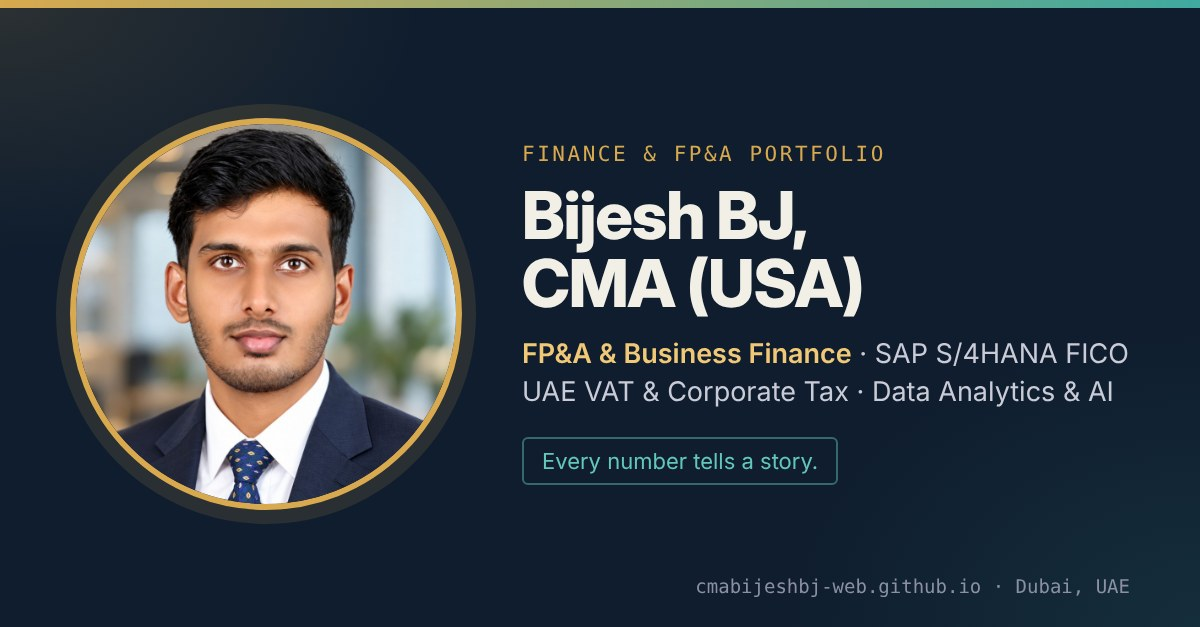
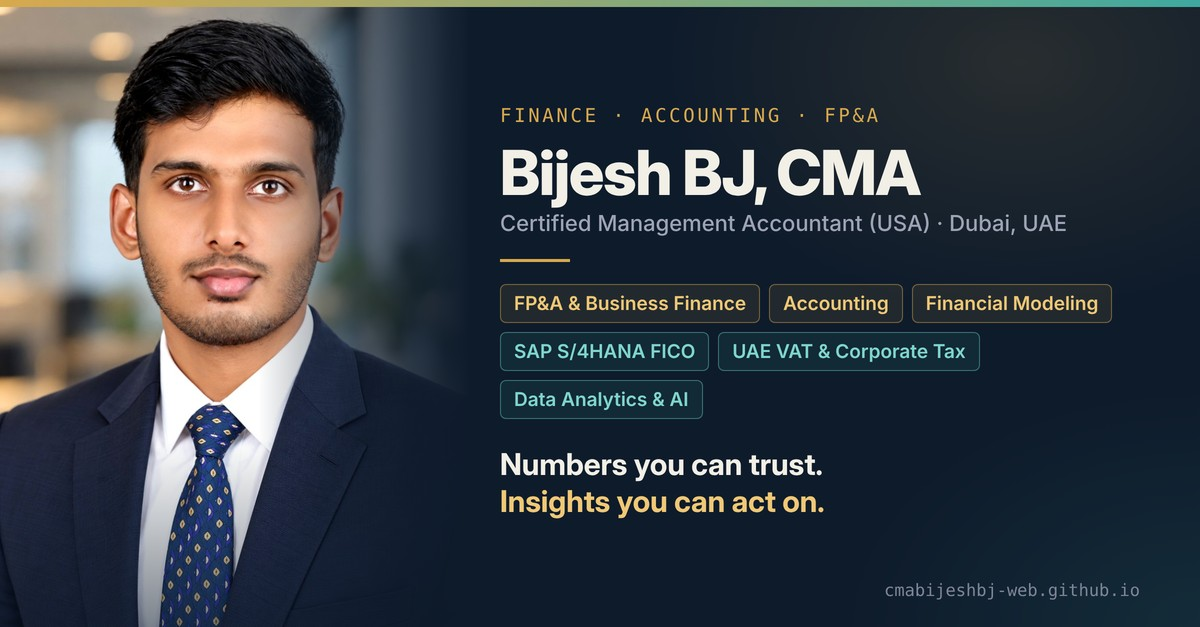
Redesign link-preview card: editorial portrait, add Accounting, new tagline
Claude-Session: https://claude.ai/code/session_01BNz9B2AMKDvx2qBeBHuAEm

diff --git a/projects/financial-model.html b/projects/financial-model.html
@@ -10,11 +10,11 @@
 <meta property="og:title" content="Integrated 3-Statement Financial Model & DCF Valuation — Bijesh BJ, CMA | Finance & FP&A | SAP FICO | Data Analytics">
 <meta property="og:description" content="Scenario-driven 3-statement model and DCF to CFI standards with Base / Upside / Downside cases, sensitivity grid and integrity checks.">
 <meta property="og:url" content="https://cmabijeshbj-web.github.io/projects/financial-model.html">
-<meta property="og:image" content="https://cmabijeshbj-web.github.io/assets/og-image.jpg?v=2">
+<meta property="og:image" content="https://cmabijeshbj-web.github.io/assets/og-image.jpg?v=3">
 <meta property="og:image:width" content="1200">
 <meta property="og:image:height" content="627">
 <meta property="og:image:alt" content="Bijesh BJ, CMA (USA) — Finance &amp; FP&amp;A Portfolio">
-<meta name="twitter:image" content="https://cmabijeshbj-web.github.io/assets/og-image.jpg?v=2">
+<meta name="twitter:image" content="https://cmabijeshbj-web.github.io/assets/og-image.jpg?v=3">
 <meta name="twitter:card" content="summary_large_image">
 <link rel="preconnect" href="https://fonts.googleapis.com">
 <link href="https://fonts.googleapis.com/css2?family=Space+Grotesk:wght@500;600;700&family=IBM+Plex+Sans:wght@400;500;600&family=IBM+Plex+Mono:wght@400;500&display=swap" rel="stylesheet">

diff --git a/projects/fpa-variance-kpi.html b/projects/fpa-variance-kpi.html
@@ -10,11 +10,11 @@
 <meta property="og:title" content="FP&A Performance, Variance & KPI Analysis — Bijesh BJ, CMA | Finance & FP&A | SAP FICO | Data Analytics">
 <meta property="og:description" content="CFO-style FP&A pack: budget vs actual across 5 business units and 6 regions, KPI scorecard, RAG status, variance bridge and auto-commentary.">
 <meta property="og:url" content="https://cmabijeshbj-web.github.io/projects/fpa-variance-kpi.html">
-<meta property="og:image" content="https://cmabijeshbj-web.github.io/assets/og-image.jpg?v=2">
+<meta property="og:image" content="https://cmabijeshbj-web.github.io/assets/og-image.jpg?v=3">
 <meta property="og:image:width" content="1200">
 <meta property="og:image:height" content="627">
 <meta property="og:image:alt" content="Bijesh BJ, CMA (USA) — Finance &amp; FP&amp;A Portfolio">
-<meta name="twitter:image" content="https://cmabijeshbj-web.github.io/assets/og-image.jpg?v=2">
+<meta name="twitter:image" content="https://cmabijeshbj-web.github.io/assets/og-image.jpg?v=3">
 <meta name="twitter:card" content="summary_large_image">
 <link rel="preconnect" href="https://fonts.googleapis.com">
 <link href="https://fonts.googleapis.com/css2?family=Space+Grotesk:wght@500;600;700&family=IBM+Plex+Sans:wght@400;500;600&family=IBM+Plex+Mono:wght@400;500&display=swap" rel="stylesheet">

diff --git a/projects/uae-corporate-tax.html b/projects/uae-corporate-tax.html
@@ -10,11 +10,11 @@
 <meta property="og:title" content="UAE Corporate Tax Computation Model — Bijesh BJ, CMA | Finance & FP&A | SAP FICO | Data Analytics">
 <meta property="og:description" content="UAE corporate tax computation: ledger-driven add-backs, exempt income, interest limitation, loss relief, 0%/9% bands and rate reconciliation.">
 <meta property="og:url" content="https://cmabijeshbj-web.github.io/projects/uae-corporate-tax.html">
-<meta property="og:image" content="https://cmabijeshbj-web.github.io/assets/og-image.jpg?v=2">
+<meta property="og:image" content="https://cmabijeshbj-web.github.io/assets/og-image.jpg?v=3">
 <meta property="og:image:width" content="1200">
 <meta property="og:image:height" content="627">
 <meta property="og:image:alt" content="Bijesh BJ, CMA (USA) — Finance &amp; FP&amp;A Portfolio">
-<meta name="twitter:image" content="https://cmabijeshbj-web.github.io/assets/og-image.jpg?v=2">
+<meta name="twitter:image" content="https://cmabijeshbj-web.github.io/assets/og-image.jpg?v=3">
 <meta name="twitter:card" content="summary_large_image">
 <link rel="preconnect" href="https://fonts.googleapis.com">
 <link href="https://fonts.googleapis.com/css2?family=Space+Grotesk:wght@500;600;700&family=IBM+Plex+Sans:wght@400;500;600&family=IBM+Plex+Mono:wght@400;500&display=swap" rel="stylesheet">

diff --git a/projects/sql-analysis.html b/projects/sql-analysis.html
@@ -10,11 +10,11 @@
 <meta property="og:title" content="Financial Data Analysis Using SQL — Bijesh BJ, CMA | Finance & FP&A | SAP FICO | Data Analytics">
 <meta property="og:description" content="14 tested SQL queries on a 1,785-invoice billing register: growth, margin, concentration, receivables ageing, DSO and collection risk.">
 <meta property="og:url" content="https://cmabijeshbj-web.github.io/projects/sql-analysis.html">
-<meta property="og:image" content="https://cmabijeshbj-web.github.io/assets/og-image.jpg?v=2">
+<meta property="og:image" content="https://cmabijeshbj-web.github.io/assets/og-image.jpg?v=3">
 <meta property="og:image:width" content="1200">
 <meta property="og:image:height" content="627">
 <meta property="og:image:alt" content="Bijesh BJ, CMA (USA) — Finance &amp; FP&amp;A Portfolio">
-<meta name="twitter:image" content="https://cmabijeshbj-web.github.io/assets/og-image.jpg?v=2">
+<meta name="twitter:image" content="https://cmabijeshbj-web.github.io/assets/og-image.jpg?v=3">
 <meta name="twitter:card" content="summary_large_image">
 <link rel="preconnect" href="https://fonts.googleapis.com">
 <link href="https://fonts.googleapis.com/css2?family=Space+Grotesk:wght@500;600;700&family=IBM+Plex+Sans:wght@400;500;600&family=IBM+Plex+Mono:wght@400;500&display=swap" rel="stylesheet">

diff --git a/projects/powerbi-dashboard.html b/projects/powerbi-dashboard.html
@@ -10,11 +10,11 @@
 <meta property="og:title" content="Interactive FP&A Analytics Dashboard — Bijesh BJ, CMA | Finance & FP&A | SAP FICO | Data Analytics">
 <meta property="og:description" content="Interactive executive dashboard: FY / BU / Region filters drive every KPI, chart, heatmap, bridge and commentary.">
 <meta property="og:url" content="https://cmabijeshbj-web.github.io/projects/powerbi-dashboard.html">
-<meta property="og:image" content="https://cmabijeshbj-web.github.io/assets/og-image.jpg?v=2">
+<meta property="og:image" content="https://cmabijeshbj-web.github.io/assets/og-image.jpg?v=3">
 <meta property="og:image:width" content="1200">
 <meta property="og:image:height" content="627">
 <meta property="og:image:alt" content="Bijesh BJ, CMA (USA) — Finance &amp; FP&amp;A Portfolio">
-<meta name="twitter:image" content="https://cmabijeshbj-web.github.io/assets/og-image.jpg?v=2">
+<meta name="twitter:image" content="https://cmabijeshbj-web.github.io/assets/og-image.jpg?v=3">
 <meta name="twitter:card" content="summary_large_image">
 <link rel="preconnect" href="https://fonts.googleapis.com">
 <link href="https://fonts.googleapis.com/css2?family=Space+Grotesk:wght@500;600;700&family=IBM+Plex+Sans:wght@400;500;600&family=IBM+Plex+Mono:wght@400;500&display=swap" rel="stylesheet">

diff --git a/projects/uae-vat.html b/projects/uae-vat.html
@@ -10,11 +10,11 @@
 <meta property="og:title" content="UAE VAT Calculation, Return & Reconciliation — Bijesh BJ, CMA | Finance & FP&A | SAP FICO | Data Analytics">
 <meta property="og:description" content="UAE VAT compliance pack: 1,250 invoices mapped to VAT 201, exception testing and turnover reconciliation.">
 <meta property="og:url" content="https://cmabijeshbj-web.github.io/projects/uae-vat.html">
-<meta property="og:image" content="https://cmabijeshbj-web.github.io/assets/og-image.jpg?v=2">
+<meta property="og:image" content="https://cmabijeshbj-web.github.io/assets/og-image.jpg?v=3">
 <meta property="og:image:width" content="1200">
 <meta property="og:image:height" content="627">
 <meta property="og:image:alt" content="Bijesh BJ, CMA (USA) — Finance &amp; FP&amp;A Portfolio">
-<meta name="twitter:image" content="https://cmabijeshbj-web.github.io/assets/og-image.jpg?v=2">
+<meta name="twitter:image" content="https://cmabijeshbj-web.github.io/assets/og-image.jpg?v=3">
 <meta name="twitter:card" content="summary_large_image">
 <link rel="preconnect" href="https://fonts.googleapis.com">
 <link href="https://fonts.googleapis.com/css2?family=Space+Grotesk:wght@500;600;700&family=IBM+Plex+Sans:wght@400;500;600&family=IBM+Plex+Mono:wght@400;500&display=swap" rel="stylesheet">

diff --git a/certifications.html b/certifications.html
@@ -10,11 +10,11 @@
 <meta property="og:title" content="Education & Certifications — Bijesh BJ, CMA | Finance & FP&A | SAP FICO | Data Analytics">
 <meta property="og:description" content="Education and certifications held by Bijesh BJ — CMA (USA), IMA Data Analytics, UAE VAT and Corporate Tax, M.Com, B.Com.">
 <meta property="og:url" content="https://cmabijeshbj-web.github.io/certifications.html">
-<meta property="og:image" content="https://cmabijeshbj-web.github.io/assets/og-image.jpg?v=2">
+<meta property="og:image" content="https://cmabijeshbj-web.github.io/assets/og-image.jpg?v=3">
 <meta property="og:image:width" content="1200">
 <meta property="og:image:height" content="627">
 <meta property="og:image:alt" content="Bijesh BJ, CMA (USA) — Finance &amp; FP&amp;A Portfolio">
-<meta name="twitter:image" content="https://cmabijeshbj-web.github.io/assets/og-image.jpg?v=2">
+<meta name="twitter:image" content="https://cmabijeshbj-web.github.io/assets/og-image.jpg?v=3">
 <meta name="twitter:card" content="summary_large_image">
 <link rel="preconnect" href="https://fonts.googleapis.com">
 <link href="https://fonts.googleapis.com/css2?family=Space+Grotesk:wght@500;600;700&family=IBM+Plex+Sans:wght@400;500;600&family=IBM+Plex+Mono:wght@400;500&display=swap" rel="stylesheet">

diff --git a/projects/powerbi-dashboard-live.html b/projects/powerbi-dashboard-live.html
@@ -10,11 +10,11 @@
 <meta property="og:title" content="Executive FP&A Dashboard (Live) — Bijesh BJ, CMA">
 <meta property="og:description" content="Interactive executive FP&A dashboard with FY / BU / Region filters, variance bridge, heatmap and receivables ageing.">
 <meta property="og:url" content="https://cmabijeshbj-web.github.io/projects/powerbi-dashboard-live.html">
-<meta property="og:image" content="https://cmabijeshbj-web.github.io/assets/og-image.jpg?v=2">
+<meta property="og:image" content="https://cmabijeshbj-web.github.io/assets/og-image.jpg?v=3">
 <meta property="og:image:width" content="1200">
 <meta property="og:image:height" content="627">
 <meta property="og:image:alt" content="Bijesh BJ, CMA (USA) — Finance &amp; FP&amp;A Portfolio">
-<meta name="twitter:image" content="https://cmabijeshbj-web.github.io/assets/og-image.jpg?v=2">
+<meta name="twitter:image" content="https://cmabijeshbj-web.github.io/assets/og-image.jpg?v=3">
 <meta name="twitter:card" content="summary_large_image">
 <link rel="preconnect" href="https://fonts.googleapis.com">
 <link href="https://fonts.googleapis.com/css2?family=Space+Grotesk:wght@500;600;700&family=IBM+Plex+Sans:wght@400;500;600&family=IBM+Plex+Mono:wght@400;500&display=swap" rel="stylesheet">

diff --git a/index.html b/index.html
@@ -10,11 +10,11 @@
 <meta property="og:title" content="Bijesh BJ, CMA | Finance & FP&A | SAP FICO | Data Analytics">
 <meta property="og:description" content="Finance & FP&A portfolio of Bijesh BJ, CMA (USA) — FP&A, SAP FICO, UAE VAT & Corporate Tax, HTML dashboards, SQL, Python and VBA with AI.">
 <meta property="og:url" content="https://cmabijeshbj-web.github.io/">
-<meta property="og:image" content="https://cmabijeshbj-web.github.io/assets/og-image.jpg?v=2">
+<meta property="og:image" content="https://cmabijeshbj-web.github.io/assets/og-image.jpg?v=3">
 <meta property="og:image:width" content="1200">
 <meta property="og:image:height" content="627">
 <meta property="og:image:alt" content="Bijesh BJ, CMA (USA) — Finance &amp; FP&amp;A Portfolio">
-<meta name="twitter:image" content="https://cmabijeshbj-web.github.io/assets/og-image.jpg?v=2">
+<meta name="twitter:image" content="https://cmabijeshbj-web.github.io/assets/og-image.jpg?v=3">
 <meta name="twitter:card" content="summary_large_image">
 <link rel="preconnect" href="https://fonts.googleapis.com">
 <link href="https://fonts.googleapis.com/css2?family=Space+Grotesk:wght@500;600;700&family=IBM+Plex+Sans:wght@400;500;600&family=IBM+Plex+Mono:wght@400;500&display=swap" rel="stylesheet">

diff --git a/experience.html b/experience.html
@@ -10,11 +10,11 @@
 <meta property="og:title" content="Experience — Bijesh BJ, CMA | Finance & FP&A | SAP FICO | Data Analytics">
 <meta property="og:description" content="Career journey of Bijesh BJ — FP&A, business finance, accounting and tax experience.">
 <meta property="og:url" content="https://cmabijeshbj-web.github.io/experience.html">
-<meta property="og:image" content="https://cmabijeshbj-web.github.io/assets/og-image.jpg?v=2">
+<meta property="og:image" content="https://cmabijeshbj-web.github.io/assets/og-image.jpg?v=3">
 <meta property="og:image:width" content="1200">
 <meta property="og:image:height" content="627">
 <meta property="og:image:alt" content="Bijesh BJ, CMA (USA) — Finance &amp; FP&amp;A Portfolio">
-<meta name="twitter:image" content="https://cmabijeshbj-web.github.io/assets/og-image.jpg?v=2">
+<meta name="twitter:image" content="https://cmabijeshbj-web.github.io/assets/og-image.jpg?v=3">
 <meta name="twitter:card" content="summary_large_image">
 <link rel="preconnect" href="https://fonts.googleapis.com">
 <link href="https://fonts.googleapis.com/css2?family=Space+Grotesk:wght@500;600;700&family=IBM+Plex+Sans:wght@400;500;600&family=IBM+Plex+Mono:wght@400;500&display=swap" rel="stylesheet">

diff --git a/projects.html b/projects.html
@@ -10,11 +10,11 @@
 <meta property="og:title" content="Projects — Bijesh BJ, CMA | Finance & FP&A | SAP FICO | Data Analytics">
 <meta property="og:description" content="FP&A, financial modeling, UAE tax, SQL and Power BI demonstration projects by Bijesh BJ.">
 <meta property="og:url" content="https://cmabijeshbj-web.github.io/projects.html">
-<meta property="og:image" content="https://cmabijeshbj-web.github.io/assets/og-image.jpg?v=2">
+<meta property="og:image" content="https://cmabijeshbj-web.github.io/assets/og-image.jpg?v=3">
 <meta property="og:image:width" content="1200">
 <meta property="og:image:height" content="627">
 <meta property="og:image:alt" content="Bijesh BJ, CMA (USA) — Finance &amp; FP&amp;A Portfolio">
-<meta name="twitter:image" content="https://cmabijeshbj-web.github.io/assets/og-image.jpg?v=2">
+<meta name="twitter:image" content="https://cmabijeshbj-web.github.io/assets/og-image.jpg?v=3">
 <meta name="twitter:card" content="summary_large_image">
 <link rel="preconnect" href="https://fonts.googleapis.com">
 <link href="https://fonts.googleapis.com/css2?family=Space+Grotesk:wght@500;600;700&family=IBM+Plex+Sans:wght@400;500;600&family=IBM+Plex+Mono:wght@400;500&display=swap" rel="stylesheet">

diff --git a/contact.html b/contact.html
@@ -10,11 +10,11 @@
 <meta property="og:title" content="Contact — Bijesh BJ, CMA | Finance & FP&A | SAP FICO | Data Analytics">
 <meta property="og:description" content="Get in touch with Bijesh BJ — CMA (USA), FP&A professional based in Dubai, UAE.">
 <meta property="og:url" content="https://cmabijeshbj-web.github.io/contact.html">
-<meta property="og:image" content="https://cmabijeshbj-web.github.io/assets/og-image.jpg?v=2">
+<meta property="og:image" content="https://cmabijeshbj-web.github.io/assets/og-image.jpg?v=3">
 <meta property="og:image:width" content="1200">
 <meta property="og:image:height" content="627">
 <meta property="og:image:alt" content="Bijesh BJ, CMA (USA) — Finance &amp; FP&amp;A Portfolio">
-<meta name="twitter:image" content="https://cmabijeshbj-web.github.io/assets/og-image.jpg?v=2">
+<meta name="twitter:image" content="https://cmabijeshbj-web.github.io/assets/og-image.jpg?v=3">
 <meta name="twitter:card" content="summary_large_image">
 <link rel="preconnect" href="https://fonts.googleapis.com">
 <link href="https://fonts.googleapis.com/css2?family=Space+Grotesk:wght@500;600;700&family=IBM+Plex+Sans:wght@400;500;600&family=IBM+Plex+Mono:wght@400;500&display=swap" rel="stylesheet">
